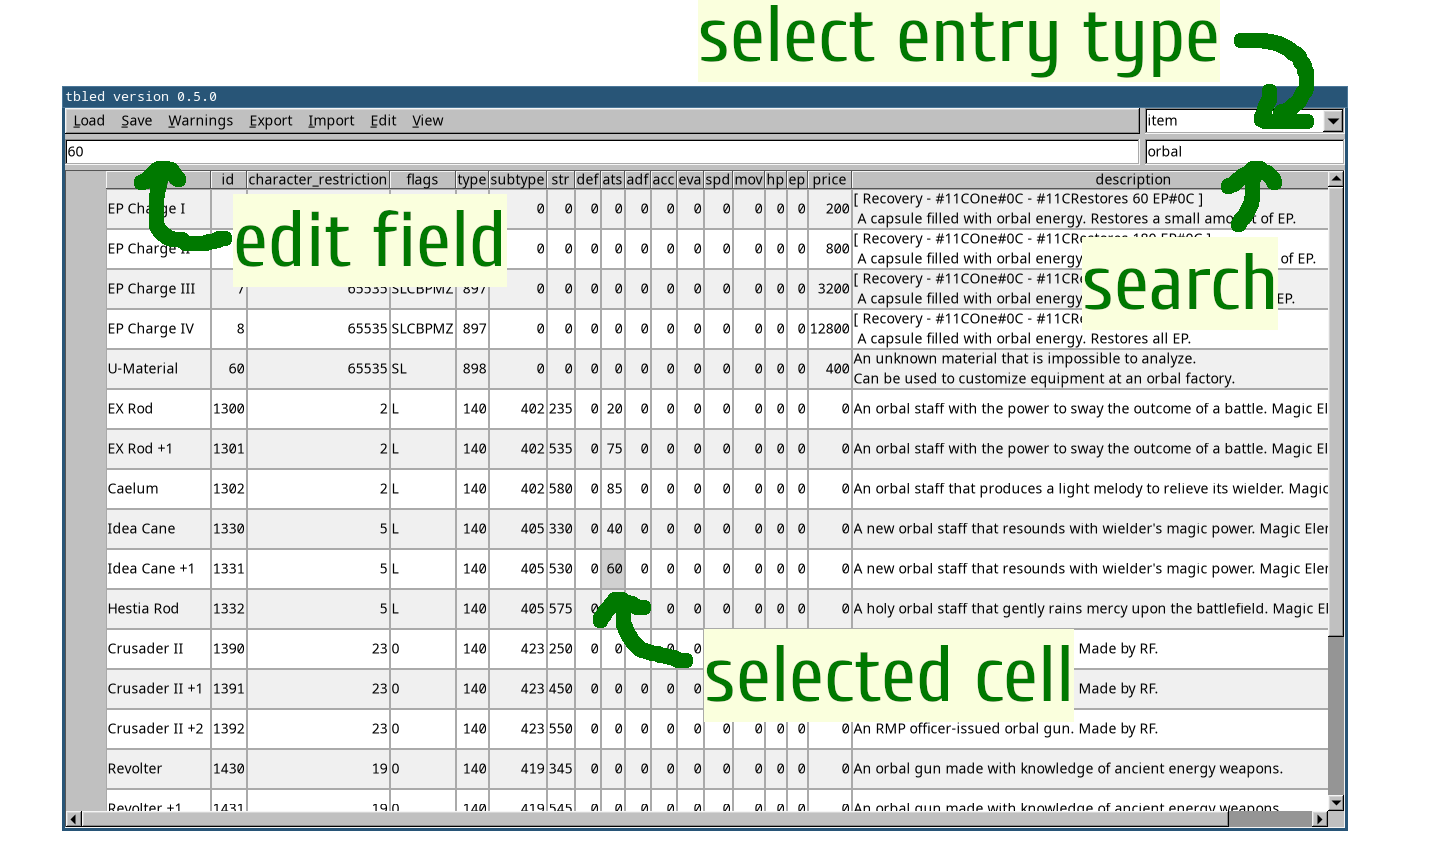
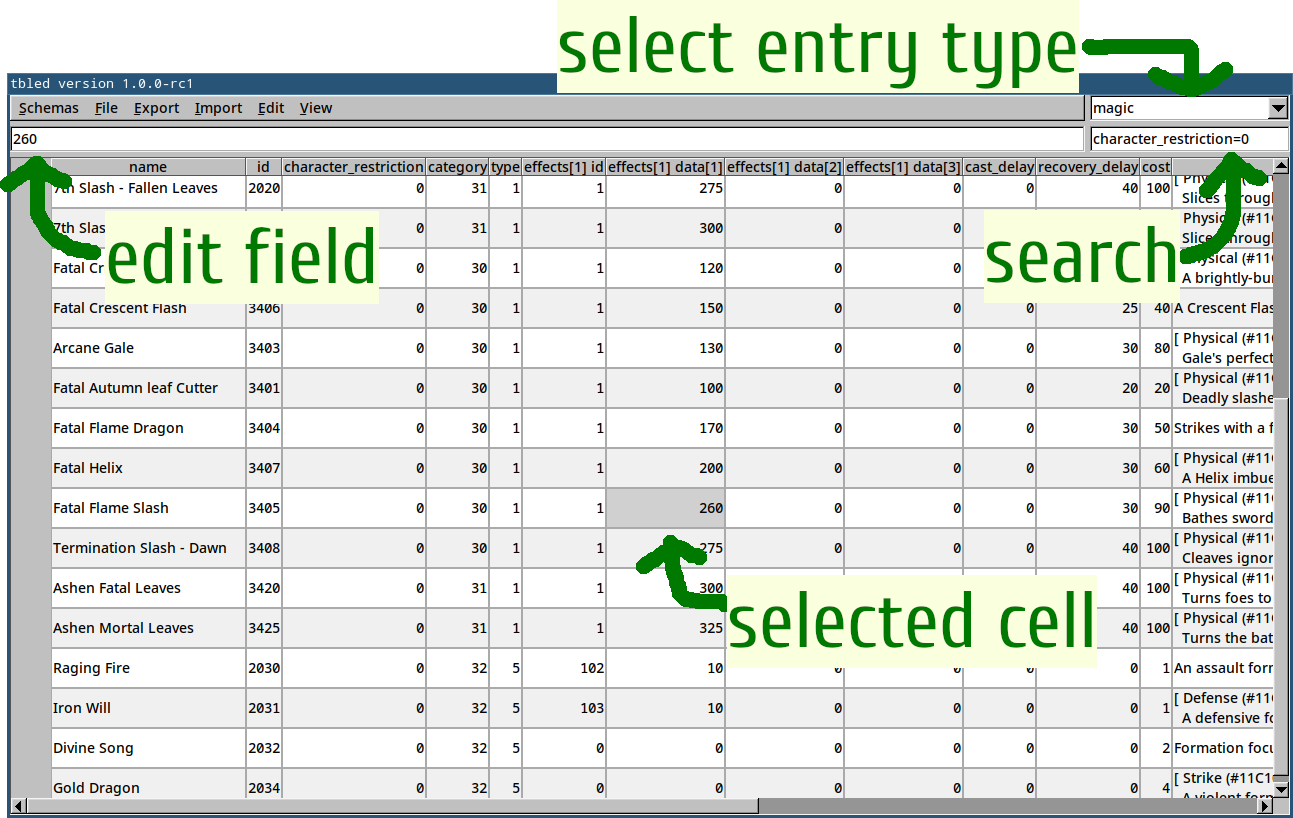
tbled: rc1 for version 1

diff --git a/tbled/README.md b/tbled/README.md
@@ -94,7 +94,7 @@ Warnings
 The tool does certain checks to detect discrepancies in the data it loads.
 In some cases, these checks can be too aggressive and reject data which would work perfectly well when loaded by the game.
 Files with known schemas can be read under certain circumstances even when these checks fail.
-For those cases, a list of warnings will be available under the "Warnings" menu option.
+For those cases, a list of warnings will be shown when loading the file.
 If there are warnings, it is your responsibility to check every warning and decide whether or not to fix the detected problem, as well as how to fix it.
 
 If there are warnings when loading files that have previously been written with this tool, that's a bug.
@@ -102,7 +102,9 @@ If there are warnings when loading files that have previously been written with 
 Releases (downloads & changelogs)
 ---------------------------------
 
-### v0.6 (in development)
+### [v1.0-rc1](https://git.sr.ht/~quf/tocs/refs/download/tbled-v1.0-rc1/tbled-v1.0-rc1.exe)
+
+- Warning: This release has not been tested as thoroughly as the others.
 
 - Show warning dialog automatically (if there are warnings) when a file is loaded.
 - Support for user-provided schemas
@@ -162,5 +164,4 @@ Planned features
 
 - schemas for Trails into Reverie (NISA PC)
   - planned for the 7th or 8th of July
-- make a solid manual test plan for the gui, preferably before ^
-- importing user-provided schemas at runtime
+- make a solid manual test plan for the gui before 1.0
